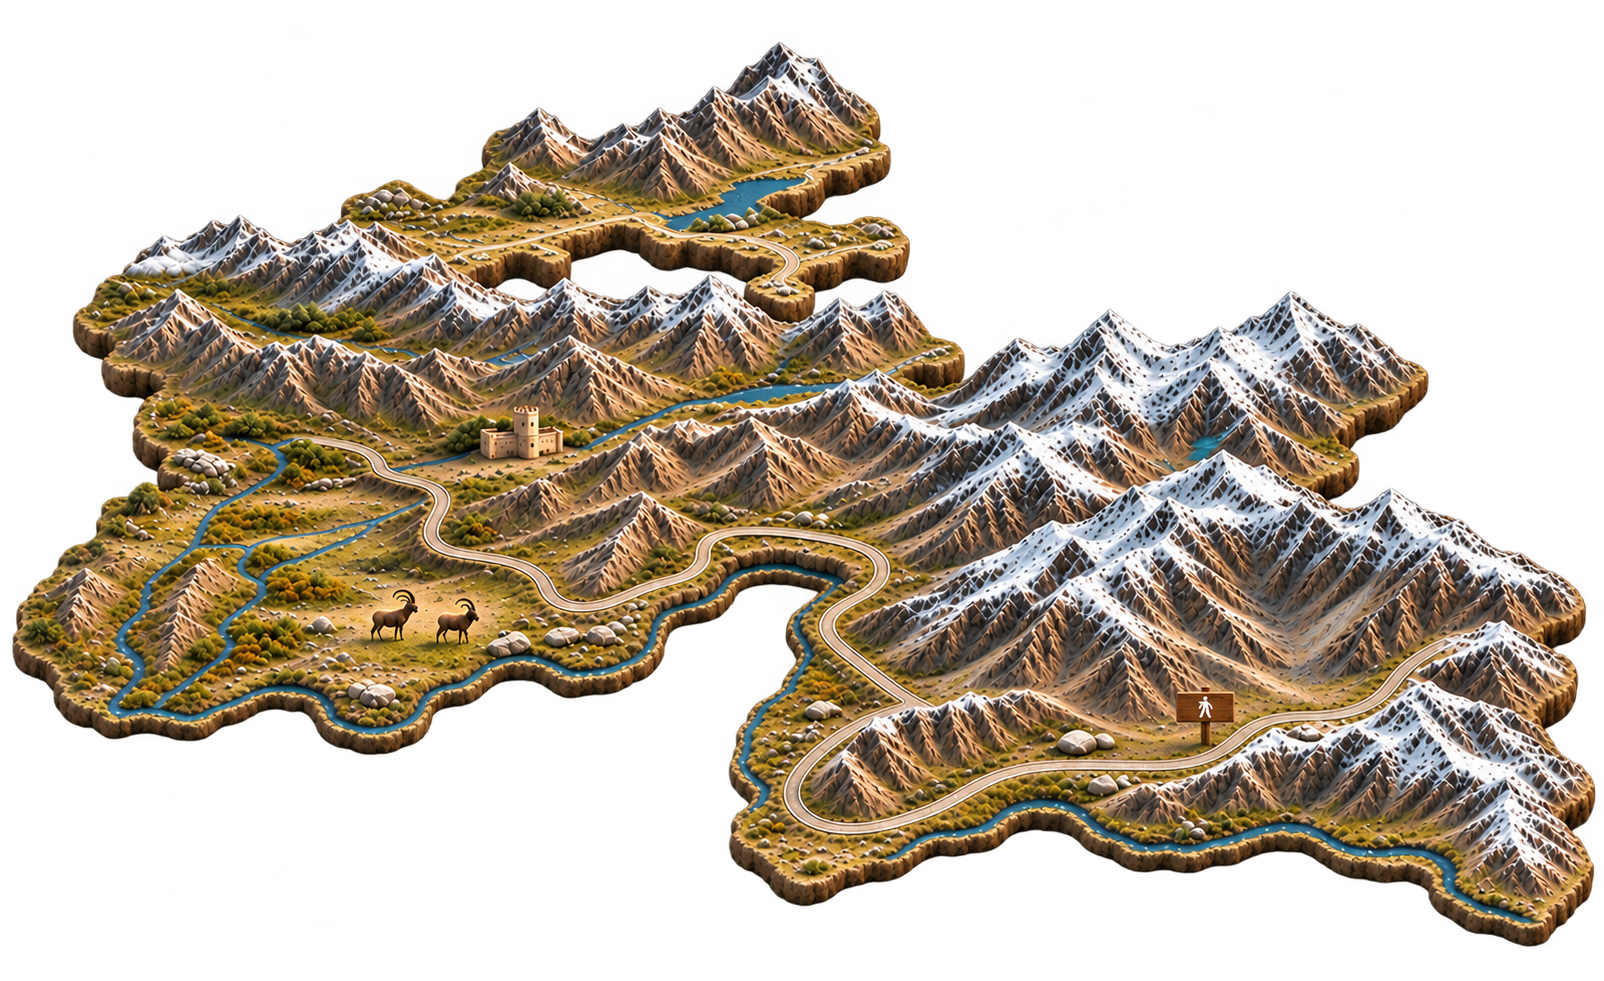
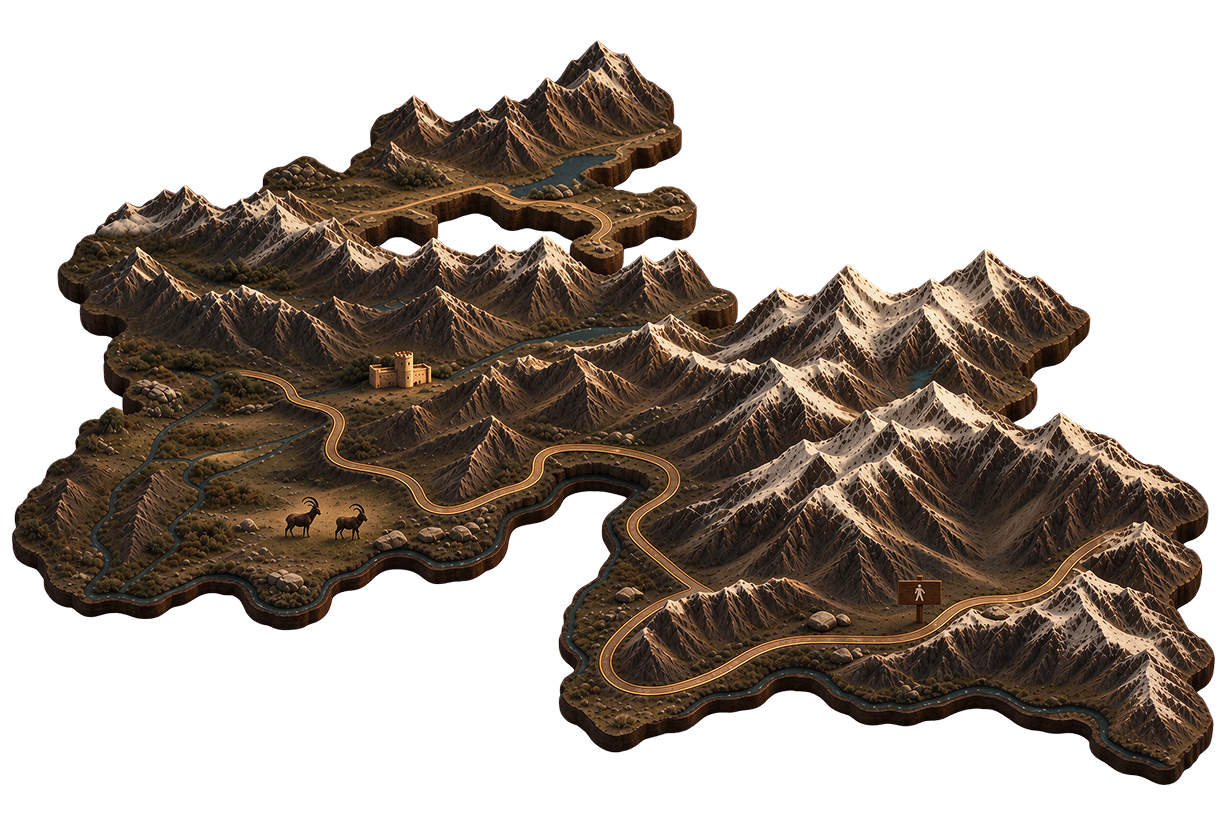
change map style

diff --git a/src/components/CampPage/CampPage.tsx b/src/components/CampPage/CampPage.tsx
@@ -8,7 +8,7 @@ import Vip1 from "@/assets/photos/springscamp/spring-camp-06.jpg";
 import Vip2 from "@/assets/photos/springscamp/spring-camp-07.jpg";
 import Vip3 from "@/assets/photos/springscamp/spring-camp-08.jpg";
 import Vip4 from "@/assets/photos/springscamp/spring-camp-10.jpg";
-import Standard1 from "@/assets/photos/springscamp/spring-camp-01.jpg";
+import Standard1 from "@/assets/photos/springscamp/spring-camp-01.webp";
 import Standard2 from "@/assets/photos/springscamp/spring-camp-02.jpg";
 import Standard3 from "@/assets/photos/springscamp/spring-camp-03.jpg";
 import Standard4 from "@/assets/photos/springscamp/spring-camp-04.jpg";
@@ -111,7 +111,7 @@ export default function CampPage({ locale }: { locale: Locale }) {
                   : "Красное здание лагеря Hot Springs в горах Памира"
               }
               fill
-              sizes="(max-width: 700px) 90vw, 55vw"
+              sizes="(max-width: 700px) 100vw, 100vw"
             />
             <span>
               {en
@@ -175,7 +175,7 @@ export default function CampPage({ locale }: { locale: Locale }) {
                       src={photo}
                       alt={caption}
                       fill
-                      sizes="(max-width: 500px) 90vw, (max-width: 1000px) 45vw, 360px"
+                      sizes="(max-width: 500px) 100vw, (max-width: 1000px) 100vw, 360px"
                     />
                     <span className="camp-photo-open" aria-hidden="true">
                       <ArrowUpRight size={18} />

diff --git a/src/components/ExpeditionMap/ExpeditionMapCanvas.tsx b/src/components/ExpeditionMap/ExpeditionMapCanvas.tsx
@@ -290,6 +290,29 @@ export default function ExpeditionMapCanvas({
               />
             </button>
           ))}
+          <div
+            className="expedition-map-object expedition-map-object-cloud"
+            aria-hidden="true"
+          >
+            <Image
+              src="/cloud.png"
+              alt=""
+              fill
+              sizes="(max-width: 600px) 70px, 180px"
+            />
+          </div>
+
+                 <div
+            className="expedition-map-object expedition-map-object-cloud2"
+            aria-hidden="true"
+          >
+            <Image
+              src="/cloud.png"
+              alt=""
+              fill
+              sizes="(max-width: 600px) 70px, 180px"
+            />
+          </div>
           <button
             ref={trigger}
             className="expedition-camp-marker"

diff --git a/src/components/ExpeditionMap/ExpeditionMap.css b/src/components/ExpeditionMap/ExpeditionMap.css
@@ -540,6 +540,33 @@
   width: 8.79cqw !important;
   height: 8.79cqw !important;
 }
+.expedition-map-object-cloud {
+  left: 65%;
+  top: 45%;
+  width: 4%;
+  height: 10%;
+  pointer-events: none;
+}
+
+.expedition-map-object-cloud2 {
+  left: 45%;
+  top: 35%;
+  width: 4%;
+  height: 10%;
+  pointer-events: none;
+}
+
+.expedition-map-object-cloud img {
+  width: 46cqw !important;
+  height: 12.34cqw !important;
+  opacity: 0.80;
+}
+
+.expedition-map-object-cloud2 img {
+  width: 14cqw !important;
+  height: 9.34cqw !important;
+  opacity: 0.70;
+}
 @media (max-width: 600px) {
   .expedition-map-stage .expedition-camp-marker {
     clip-path: circle(50%);

diff --git a/src/components/Gallery/Gallery.tsx b/src/components/Gallery/Gallery.tsx
@@ -129,6 +129,7 @@ export default function Gallery({
                     src={photo.src}
                     alt={caption}
                     fill
+                    quality={90}
                     sizes={
                       index === 0
                         ? "(max-width: 700px) 100vw, (max-width: 1000px) 90vw, 800px"

diff --git a/src/components/Gallery/PhotoLink.tsx b/src/components/Gallery/PhotoLink.tsx
@@ -18,6 +18,7 @@ export default function PhotoLink({
       <Image
         src={image.src}
         alt={alt}
+        quality={90}
         sizes="(max-width: 639px) 100vw, (max-width: 1023px) 50vw, 33vw"
         className="gallery_image-item rounded-lg"
       />
